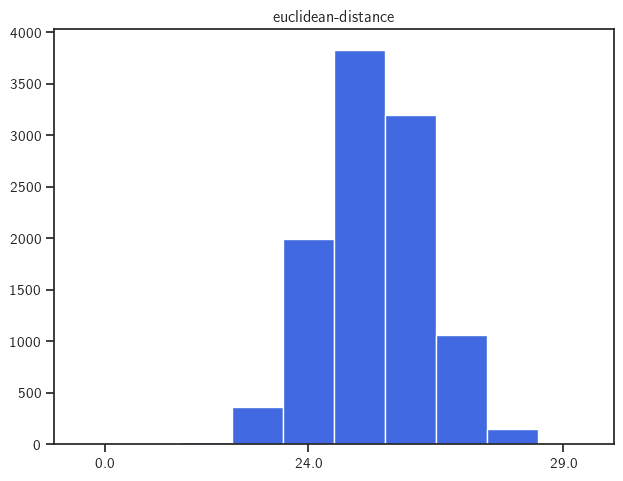
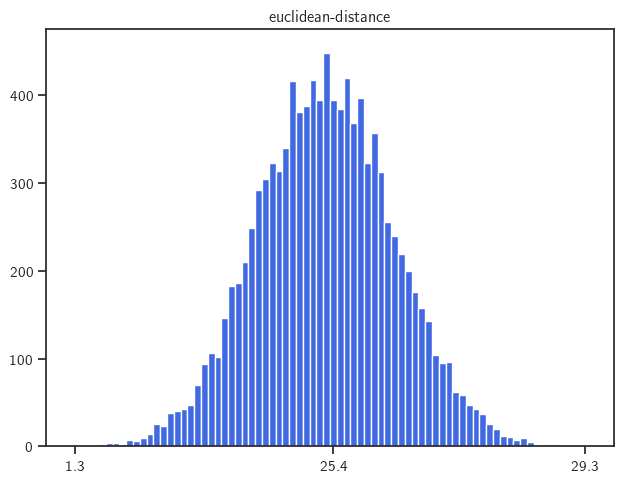
Implements cosine similarity and caching evaluation entries

Changed region(s): [[0.0, 0.0624, 0.9759, 0.9979], [0.427, 0.0, 0.6404, 0.0624]]

diff --git a/services/experiments/ocr_quality_experiment_service.py b/services/experiments/ocr_quality_experiment_service.py
@@ -1,4 +1,6 @@
+from entities.word_evaluation import WordEvaluation
 import math
+from services.cache_service import CacheService
 from matplotlib.pyplot import xticks
 from overrides.overrides import overrides
 from typing import Counter, List, Dict
@@ -27,20 +29,41 @@ class OCRQualityExperimentService(ExperimentServiceBase):
             file_service: FileService,
             metrics_service: MetricsService,
             plot_service: PlotService,
+            cache_service: CacheService,
             model: ModelBase):
         super().__init__(arguments_service, dataloader_service, file_service, model)
 
         self._arguments_service = arguments_service
         self._metrics_service = metrics_service
         self._plot_service = plot_service
+        self._cache_service = cache_service
 
     @overrides
     def execute_experiments(self, experiment_types: List[ExperimentType]):
 
         result = {experiment_type: {} for experiment_type in experiment_types}
 
-        model1_embeddings = []
-        model2_embeddings = []
+        word_evaluations: List[WordEvaluation] = self._cache_service.get_item_from_cache(
+            item_key='word-evaluations',
+            callback_function=self._generate_embeddings)
+
+        for word_evaluation in word_evaluations:
+            if ExperimentType.CosineSimilarity in experiment_types:
+                result[ExperimentType.CosineSimilarity][word_evaluation.word] = self._metrics_service.calculate_cosine_similarity(
+                    list1=word_evaluation.embeddings_1,
+                    list2=word_evaluation.embeddings_2)
+
+            if ExperimentType.EuclideanDistance in experiment_types:
+                result[ExperimentType.EuclideanDistance][word_evaluation.word] = self._metrics_service.calculate_euclidean_distance(
+                    list1=word_evaluation.embeddings_1,
+                    list2=word_evaluation.embeddings_2)
+
+        # a, b, c = procrustes(model1_embeddings, model2_embeddings)
+
+        self._save_experiment_results(result)
+
+    def _generate_embeddings(self) -> List[WordEvaluation]:
+        result = []
 
         dataloader_length = len(self._dataloader)
         for i, batch in enumerate(self._dataloader):
@@ -49,28 +72,9 @@ class OCRQualityExperimentService(ExperimentServiceBase):
             words, token_ids = batch
             outputs = self._model.get_embeddings(token_ids)
 
-            model1_embeddings.extend(outputs[0])
-            model2_embeddings.extend(outputs[1])
+            result.extend([WordEvaluation(word, embeddings_1, embeddings_2) for word, embeddings_1, embeddings_2 in zip(words, outputs[0], outputs[1])])
 
-            for i, word in enumerate(words):
-                if ExperimentType.CosineDistance in experiment_types:
-                    result[ExperimentType.CosineDistance][word] = self._metrics_service.calculate_cosine_distance(
-                        list1=outputs[0][i],
-                        list2=outputs[1][i])
-
-                if ExperimentType.EuclideanDistance in experiment_types:
-                    result[ExperimentType.EuclideanDistance][word] = self._metrics_service.calculate_euclidean_distance(
-                        list1=outputs[0][i],
-                        list2=outputs[1][i])
-
-                # if ExperimentType.KLDivergence in experiment_types:
-                #     result[ExperimentType.KLDivergence][word] = self._metrics_service.calculate_KL_divergence(
-                #         list1=outputs[0][i],
-                #         list2=outputs[1][i])
-
-        # a, b, c = procrustes(model1_embeddings, model2_embeddings)
-
-        self._save_experiment_results(result)
+        return result
 
     def _save_experiment_results(self, result: Dict[ExperimentType, Dict[str, float]]):
         experiments_folder = self._file_service.get_experiments_path()
@@ -78,20 +82,12 @@ class OCRQualityExperimentService(ExperimentServiceBase):
             experiments_folder, 'distances', self._arguments_service.language.value, create_if_missing=True)
 
         for experiment_type, word_value_pairs in result.items():
-            values = list(word_value_pairs.values())
+            values = [round(x, 1) for x in word_value_pairs.values()]
 
             if values is None or len(values) == 0:
                 continue
 
-            exponents = [format(x, '.1e') for x in values]
-            exponents.sort(key=float)
-            counter = Counter(exponents)
-            counter = Counter(
-                {float(key): value for key, value in counter.items()})
-
-            # ensure that the plot starts from 0
-            if 0.0 not in counter.keys():
-                counter[0.0] = 0
+            counter = Counter(values)
 
             filename = f'{self._arguments_service.configuration.value}-{experiment_type.value}'
             self._plot_service.plot_counters_histogram(

diff --git a/dependency_injection/ioc_container.py b/dependency_injection/ioc_container.py
@@ -295,6 +295,7 @@ def register_experiment_service(
         file_service: FileService,
         metrics_service: MetricsService,
         plot_service: PlotService,
+        cache_service: CacheService,
         model: ModelBase,
         run_experiments: bool):
 
@@ -308,6 +309,7 @@ def register_experiment_service(
         file_service=file_service,
         metrics_service=metrics_service,
         plot_service=plot_service,
+        cache_service=cache_service,
         model=model
     )
 
@@ -488,6 +490,7 @@ class IocContainer(containers.DeclarativeContainer):
         file_service=file_service,
         metrics_service=metrics_service,
         plot_service=plot_service,
+        cache_service=cache_service,
         model=model,
         run_experiments=run_experiments)
 

diff --git a/services/metrics_service.py b/services/metrics_service.py
@@ -63,3 +63,19 @@ class MetricsService:
     def calculate_euclidean_distance(self, list1: list, list2: list) -> float:
         euclidean_distance = scipy_distances.euclidean(list1, list2)
         return euclidean_distance
+
+    def calculate_cosine_similarity(self, list1: list, list2: list) -> float:
+        """
+        Calculates cosine similarity using scipy cosine distance.
+
+        Original formula is `cosine_distance = 1 - cosine_similarity`.
+        Thus `cosine_similarity = cosine_distance + 1`
+
+        Results are to be described as
+        - −1 meaning exactly opposite
+        - +1 meaning exactly the same
+        - 0 indicating orthogonality
+        """
+
+        cosine_distance = scipy_distances.cosine(list1, list2)
+        return cosine_distance - 1

diff --git a/entities/word_evaluation.py b/entities/word_evaluation.py
@@ -1,0 +1,17 @@
+class WordEvaluation:
+    def __init__(self, word: str, embeddings_1: list, embeddings_2: list):
+        self._word = word
+        self._embeddings_1 = embeddings_1
+        self._embeddings_2 = embeddings_2
+
+    @property
+    def word(self) -> str:
+        return self._word
+
+    @property
+    def embeddings_1(self) -> list:
+        return self._embeddings_1
+
+    @property
+    def embeddings_2(self) -> list:
+        return self._embeddings_2

diff --git a/enums/experiment_type.py b/enums/experiment_type.py
@@ -1,6 +1,6 @@
 from enums.argument_enum import ArgumentEnum
 
 class ExperimentType(ArgumentEnum):
-    CosineDistance = 'cosine-distance'
+    CosineSimilarity = 'cosine-similarity'
     EuclideanDistance = 'euclidean-distance'
     KLDivergence = 'kl-divergence'
